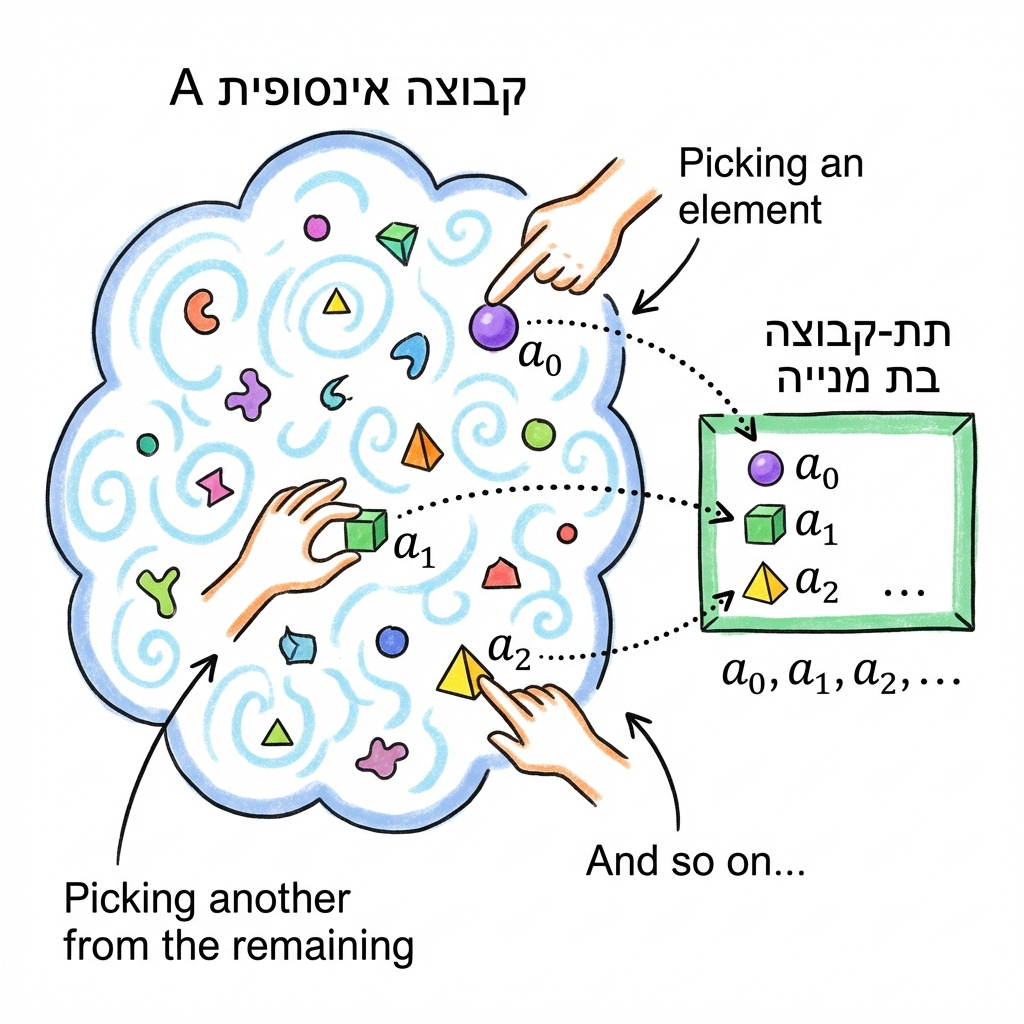
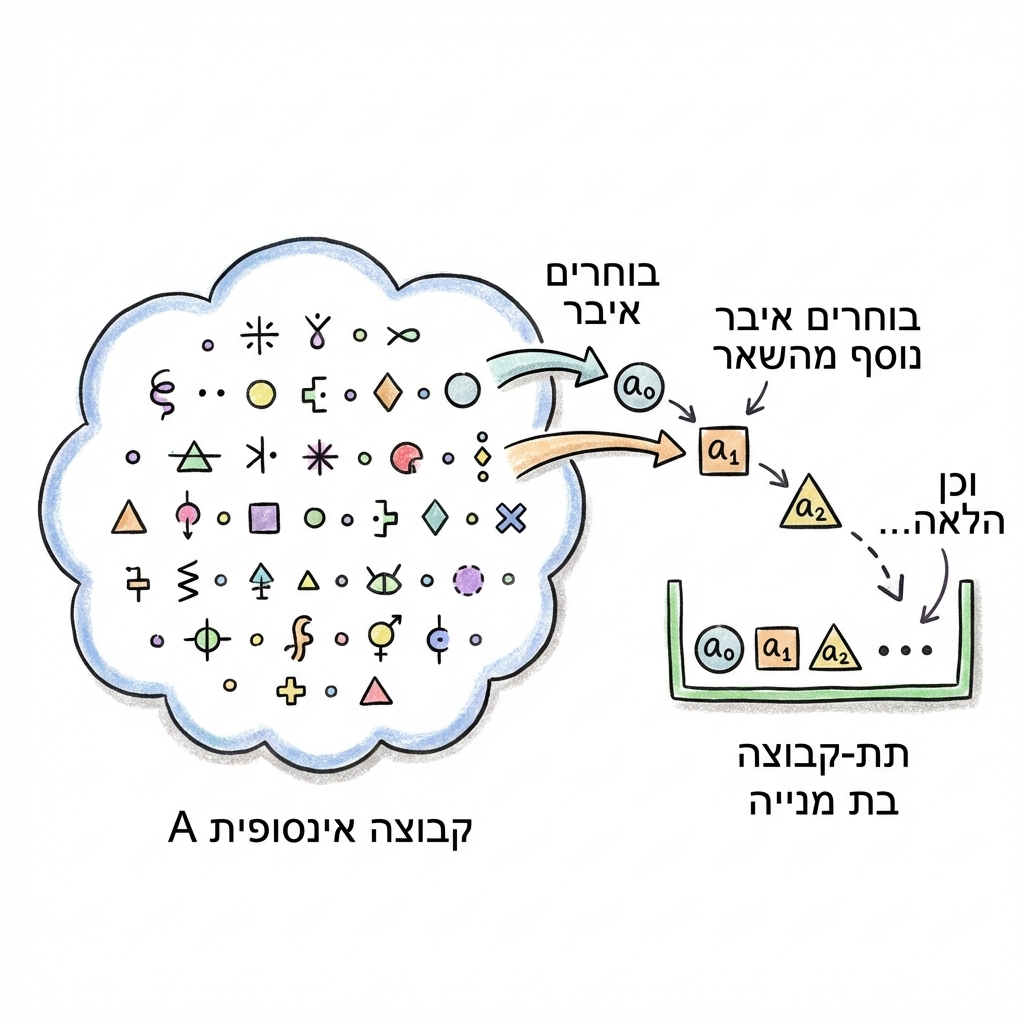
עוד דוגמה

Changed region(s): [[0.0312, 0.0625, 1.0, 0.9375]]

diff --git a/08-cardinals.md b/08-cardinals.md
@@ -954,25 +954,35 @@ $$f(\sum_{i=1}^{\infty} d_i 10^{-i})(i) = d_i$$
 - לכן האיבר $a_n$ מוגדר היטב.
 - הקבוצה $\{a_n \mid n \in \mathbb{N}\}$ היא תת קבוצה של $A$, ועוצמתה $\aleph_0$.
 
-<div style="position: absolute; top: 250px; left: 90px;">
-  <img src="./images/infinite_set_subset_aleph0.png" alt="Infinite Set Subset" style="width: 250px;" />
+<div style="position: absolute; top: 220px; left: 30px;">
+  <img src="./images/infinite_set_subset_aleph0.png" alt="Infinite Set Subset" style="width: 350px;" />
 </div>
 
 
 ---
 
 
-# $\mathbb{R} \setminus \mathbb{N} \sim \mathbb{R}$
+# תרגיל לדוגמה: $\mathbb{R} \setminus \mathbb{N} \sim \mathbb{R}$
 
-### הוכחה:
-- $\mathbb{Z} \setminus \mathbb{N} \sim \mathbb{N}$ ($\mathbb{Z} \setminus \mathbb{N}$ היא תת קבוצה של $\mathbb{Z}$, ולכן היא בת מניה, ובנוסף היא אינסופית).
+- $\mathbb{Z} \setminus \mathbb{N} \sim \mathbb{N}$:
+  - $\mathbb{Z} \setminus \mathbb{N}$ היא תת קבוצה של $\mathbb{Z}$, ולכן היא בת מניה.
+  
+  - בנוסף היא אינסופית.
+
+
 - תהי $f\colon \mathbb{Z} \to \mathbb{Z} \setminus \mathbb{N}$ פונקציה חד-חד-ערכית ועל.
+
 - נגדיר $g\colon \mathbb{R} \to \mathbb{R} \setminus \mathbb{N}$ על פי:
   $$g(x) = \begin{cases} 
   f(x) & x \in \mathbb{Z} \\
   x & x \in \mathbb{R} \setminus \mathbb{Z} 
   \end{cases}$$
 - ניתן לראות בקלות שזו פונקציה חד-חד-ערכית ועל.
+
+<div style="position: absolute; top: 130px; left: 40px;">
+  <img src="./images/r_minus_n_bijection.png" alt="R minus N bijection" style="width: 250px;" />
+</div>
+
 
 ---
 
